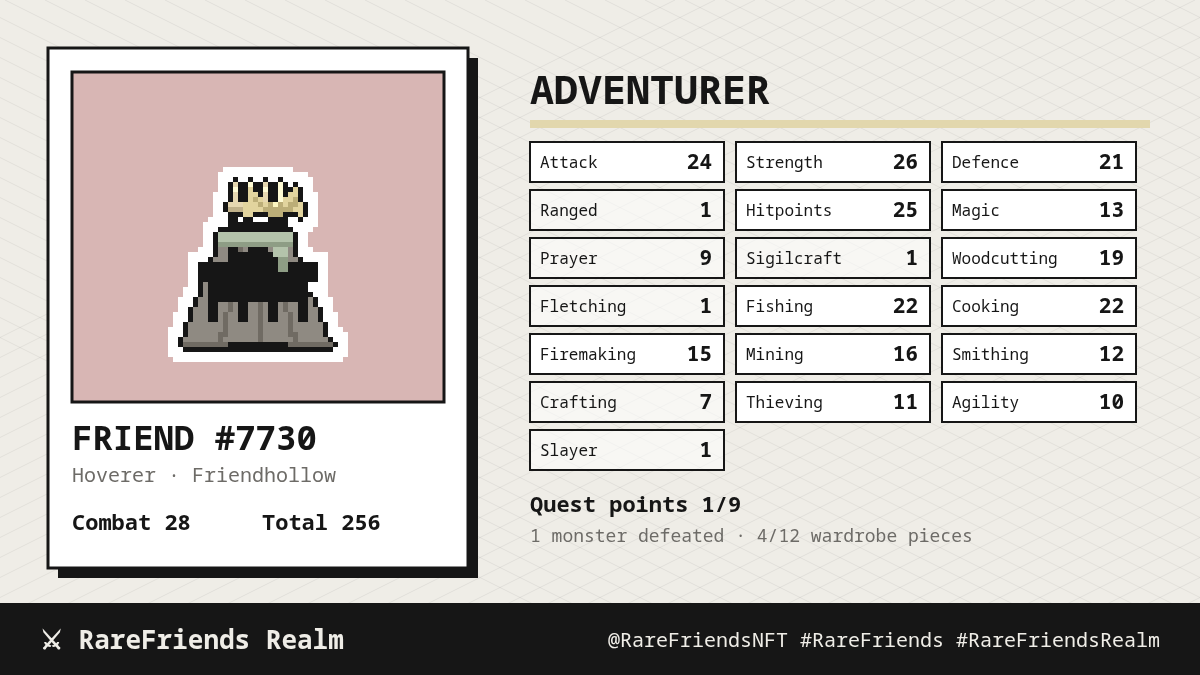
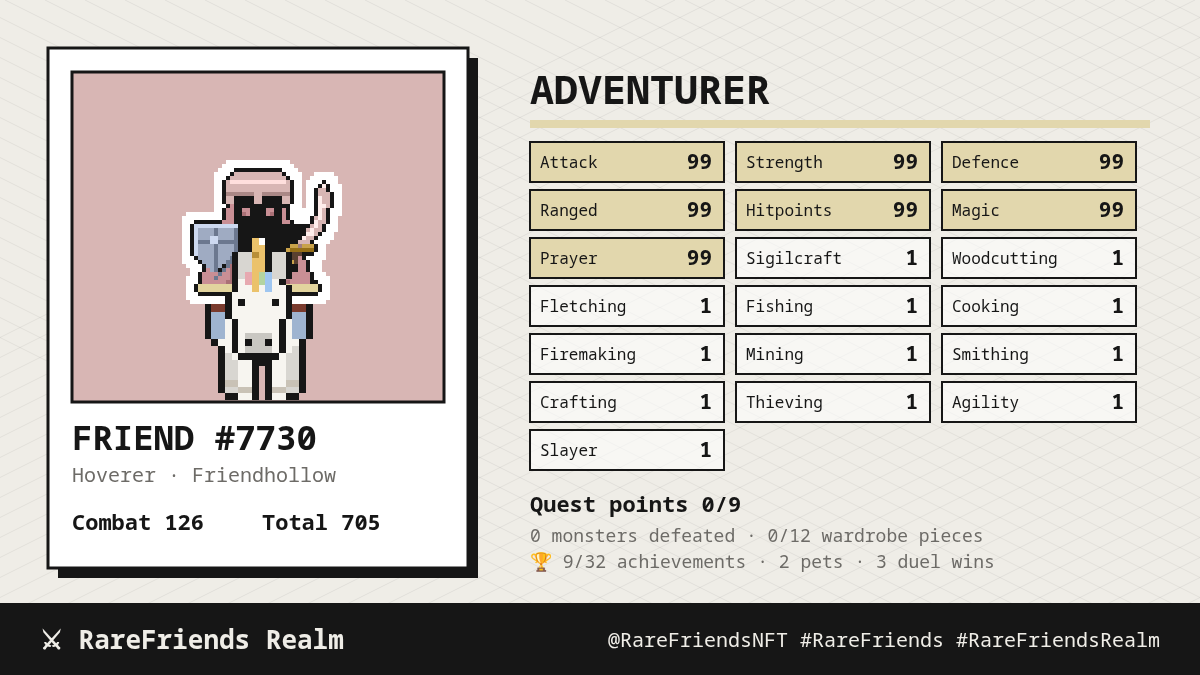
Preview site: a What's new gallery (playing together, unicorns and the stables, the Ashen Colossus, the Sparring Ring, fireworks, storms and fog, gear, rare drops, pets and hiscores, the Realm Daily, achievements), a new adventurer card; fireworks glow over the night

diff --git a/site/preview/index.html b/site/preview/index.html
@@ -153,7 +153,7 @@ footer .wrap { display: flex; flex-wrap: wrap; justify-content: space-between; g
 <header class="top">
   <div class="wrap bar">
     <a class="logo" href="#"><i>⚔</i> RareFriends Realm</a>
-    <nav aria-label="Sections"><a href="#trailer">Trailer</a><a href="#explore">Explore</a><a href="#skills">Skills &amp; quests</a><a href="#music-section">Soundtrack</a><a href="#caskets">Caskets</a><a href="./guides.html">Skill guides</a><a href="#play">Play</a></nav>
+    <nav aria-label="Sections"><a href="#trailer">Trailer</a><a href="#new">What's new</a><a href="#explore">Explore</a><a href="#skills">Skills &amp; quests</a><a href="#music-section">Soundtrack</a><a href="#caskets">Caskets</a><a href="./guides.html">Skill guides</a><a href="#play">Play</a></nav>
   </div>
   <div class="wrap trailer" id="trailer">
     <div class="frame">
@@ -167,7 +167,7 @@ footer .wrap { display: flex; flex-wrap: wrap; justify-content: space-between; g
     <div>
       <span class="tag">Rare Friends Vibeathon · FriendSDK v0.1.2</span>
       <h1>RareFriends<span>Realm</span></h1>
-      <p class="lead">An old-school adventure starring the Rare Friend you own. Chop, fish, mine, smith and fight across a hand-built 2.5D island, right-click everything, and end the Hollow King's reign.</p>
+      <p class="lead">An old-school adventure starring the Rare Friend you own, shared with everyone online. Chop, fish, mine, smith and fight across a hand-built 2.5D island, ride horses and unicorns, duel your friends, bring down a world boss together, and end the Hollow King's reign.</p>
       <div class="cta">
         <a class="btn primary" href="../">⚔ Play the Realm</a>
         <button class="btn" type="button" data-track="theme">♪ Hear the main theme</button>
@@ -179,6 +179,30 @@ footer .wrap { display: flex; flex-wrap: wrap; justify-content: space-between; g
 </header>
 
 <div class="ribbon"><ul class="wrap"><li><b>19</b>skills</li><li><b>6</b>quests</li><li><b>14</b>regions</li><li><b>8</b>mounts</li><li><b>6</b>pets</li><li><b>32</b>achievements</li><li><b>18</b>music tracks</li><li><b>1</b>world boss</li></ul></div>
+
+<section id="new">
+  <div class="wrap">
+    <span class="tag">What's new</span>
+    <h2>The Realm keeps growing</h2>
+    <p class="sub">Since launch the Realm has become a place to play together: mounts, a world boss, duels, pets, achievements, a daily streak, weather and a lot of polish. Every update is listed in the game's own update log.</p>
+    <div class="regions">
+      <figure class="region big"><img src="img/new-together.png" alt="Two players on a unicorn and a black warhorse chatting by the Friendhollow fountain" loading="lazy"><figcaption><b>Play together</b>Everyone online shares the Realm: see each other's Friends, gear and mounts, chat and whisper, trade, fight the same monsters, and earn +5% XP near friends.</figcaption></figure>
+      <figure class="region"><img src="img/new-unicorn.png" alt="A Friend in a moonsilver helm with a sword and shield riding a unicorn through Friendhollow" loading="lazy"><figcaption><b>Ride a unicorn</b>Eight mounts, each faster than running, each with a gift.</figcaption></figure>
+      <figure class="region"><img src="img/new-stables.png" alt="The Friendhollow stables and paddock, with a chestnut horse, a grey and a unicorn grazing" loading="lazy"><figcaption><b>The stables</b>Marigold's stables and paddock, west of the castle.</figcaption></figure>
+      <figure class="region"><img src="img/new-boss.png" alt="The Ashen Colossus, a huge ember-red giant, in Wyrmreach" loading="lazy"><figcaption><b>The Ashen Colossus</b>A world boss every two hours. Everyone who wounds it shares the loot.</figcaption></figure>
+      <figure class="region"><img src="img/new-duel.png" alt="Two players dueling inside the fenced Sparring Ring" loading="lazy"><figcaption><b>The Sparring Ring</b>Safe duels between players, with wins and losses counted.</figcaption></figure>
+      <figure class="region"><img src="img/new-fireworks.png" alt="Level-up fireworks bursting over Friendhollow square at night" loading="lazy"><figcaption><b>Level-up fireworks</b>In your skill's colours, and everyone nearby sees them.</figcaption></figure>
+      <figure class="region"><img src="img/new-storm.png" alt="A lightning bolt striking Friendhollow in a rainstorm" loading="lazy"><figcaption><b>Storms</b>Rain, lightning and thunder that every player shares.</figcaption></figure>
+      <figure class="region"><img src="img/new-fog.png" alt="Ground fog over the Hollow Farms at dawn" loading="lazy"><figcaption><b>Misty mornings</b>Ground fog at dawn, and the Murkmire's mist.</figcaption></figure>
+      <figure class="region"><img src="img/new-gear-knight.png" alt="A Friend in a rarite helm with a sabre, shield and trimmed cape" loading="lazy"><figcaption><b>Gear you can see</b>Helms, shields and weapons painted into your Friend's pixels.</figcaption></figure>
+      <figure class="region"><img src="img/new-gear-mage.png" alt="A Friend in a wizard's hat holding an ember staff upright" loading="lazy"><figcaption><b>Staffs and hats</b>Staffs stand upright with an orb of their element.</figcaption></figure>
+      <figure class="region"><img src="img/new-rare.png" alt="A rare drop glowing in a beam of golden light at night" loading="lazy"><figcaption><b>Rare drops</b>A beam of light and a chime when something good drops.</figcaption></figure>
+      <figure class="region"><img src="img/new-pets.png" alt="The Friends tab with pets and a hiscores table, and Mote the pet floating beside a Friend" loading="lazy"><figcaption><b>Pets and hiscores</b>Six pets to find, and hiscores of everyone you've met.</figcaption></figure>
+      <figure class="region"><img src="img/new-daily.png" alt="The Realm Daily popup with a 7-day streak and three challenges" loading="lazy"><figcaption><b>The Realm Daily</b>A login streak, three daily challenges and a chest.</figcaption></figure>
+      <figure class="region"><img src="img/new-achievements.png" alt="The achievements tab with earned and locked achievements" loading="lazy"><figcaption><b>32 achievements</b>Skills, combat, quests, collecting, together and daily.</figcaption></figure>
+    </div>
+  </div>
+</section>
 
 <section>
   <div class="wrap">
@@ -216,7 +240,7 @@ footer .wrap { display: flex; flex-wrap: wrap; justify-content: space-between; g
   <div class="wrap">
     <span class="tag">Explore</span>
     <h2>A 240 × 240 tile island</h2>
-    <p class="sub">Fourteen regions and two dungeons, each with its own music: cobbled Friendhollow and its three-storey castle, the Wizards' Tower, dragon-haunted Wyrmreach, the farms, Whisperwood's Grumblins, the Ashen Hills mine, the Emberforge, snowy Frostpeak, Glass Lake, the Pale Dunes and Oasis, Murkmire's crypt, and the Mossy Ruins above the Hollow Depths.</p>
+    <p class="sub">Fourteen regions and two dungeons, each with its own music: cobbled Friendhollow with its three-storey castle, stables and Sparring Ring, the Wizards' Tower, dragon-haunted Wyrmreach, the farms, Whisperwood's Grumblins, the Ashen Hills mine, the Emberforge, snowy Frostpeak, Glass Lake, the Pale Dunes and Oasis, Murkmire's crypt, and the Mossy Ruins above the Hollow Depths.</p>
     <div class="regions">
       <figure class="region big"><img src="img/town.png" alt="Friendhollow square with its fountain, bank, chapel and townsfolk Friends" loading="lazy"><figcaption><b>Friendhollow</b>The fountain square, the bank, the chapel and Friendhollow Castle, where King Hollis holds court upstairs.</figcaption></figure>
       <figure class="region"><img src="img/castle.png" alt="Friendhollow Castle's keep and four spired towers seen from the square" loading="lazy"><figcaption><b>Friendhollow Castle</b>A keep, four towers and spiral stairs.</figcaption></figure>
@@ -303,11 +327,11 @@ footer .wrap { display: flex; flex-wrap: wrap; justify-content: space-between; g
 
 <section class="dark" style="padding: 56px 0">
   <div class="wrap two">
-    <img src="img/adventurer-card.png" alt="An adventurer card for Friend #7730 with levels and quest points">
+    <img src="img/adventurer-card.png" alt="An adventurer card for Friend #7730 riding a unicorn in a rarite helm with a shield and sabre, with levels, quest points and achievements">
     <div>
       <span class="tag" style="color: var(--gold)">Share</span>
       <h2>Post your adventurer card</h2>
-      <p>Your Friend, your nineteen levels and your quest points on a 1200 × 675 card. <b>Post to X</b> tags <b>@RareFriendsNFT #RareFriends #RareFriendsRealm</b>, or copy or save the picture.</p>
+      <p>Your Friend exactly as it looks in the Realm (helm, cape, shield, weapon, and the mount you're riding), your nineteen levels, quest points, achievements, pets and duel wins on a 1200 × 675 card. <b>Post to X</b> tags <b>@RareFriendsNFT #RareFriends #RareFriendsRealm</b>, or copy or save the picture.</p>
       <p style="color: #a8a39c">Your progress saves through the trusted host page for each wallet and Friend, and your other owned Friends can follow you around the Realm.</p>
     </div>
   </div>

diff --git a/games/rarefriends-realm/effects.ts b/games/rarefriends-realm/effects.ts
@@ -12,6 +12,8 @@ type Particle = {
   x: number; y: number; h: number; vx: number; vy: number; vh: number; gravity: number; age: number; life: number;
   color: string; size: number; kind: "chip" | "spark" | "drop" | "puff" | "leaf" | "flake" | "dust" | "glow" | "butterfly" | "ring";
   seed: number;
+  /** Firework sparks: drawn glowing, over the night. */
+  bright?: boolean;
 };
 const particles: Particle[] = [];
 const MAX = 320;
@@ -34,25 +36,26 @@ export function fireworks(world: World, x: number, y: number, colors: readonly s
     const ox = (r - 1) * 0.8, oy = (1 - r) * 0.35, delay = r * 0.24, climb = 0.55 + r * 0.06, rise = 150, drag = 60;
     const apex = ground + 30 + rise * climb - drag * climb * climb / 2;
     pending.push({ at: effectsClock + delay, run: () => {
-      add({ x: x + ox, y: y + oy, h: ground + 30, vx: 0, vy: 0, vh: rise, gravity: drag, life: climb, color: "#fff4c0", size: 2.4, kind: "spark" });
-      for (let k = 1; k < 4; k++) add({ x: x + ox, y: y + oy, h: ground + 30, vx: 0, vy: 0, vh: rise - k * 12, gravity: drag, life: climb, color: "#e6a24a", size: 1.4, kind: "spark" });
+      add({ x: x + ox, y: y + oy, h: ground + 30, vx: 0, vy: 0, vh: rise, gravity: drag, life: climb, color: "#fff4c0", size: 3, kind: "spark", bright: true });
+      for (let k = 1; k < 4; k++) add({ x: x + ox, y: y + oy, h: ground + 30, vx: 0, vy: 0, vh: rise - k * 12, gravity: drag, life: climb, color: "#e6a24a", size: 1.8, kind: "spark", bright: true });
     } });
     pending.push({ at: effectsClock + delay + climb, run: () => {
       const color = colors[r % colors.length];
-      burst("chip", x + ox, y + oy, apex, 24, color, { speed: 2.6, up: 34, gravity: 46, life: 1.4, size: 3 });
-      burst("chip", x + ox, y + oy, apex, 10, colors[(r + 1) % colors.length], { speed: 1.8, up: 26, gravity: 46, life: 1.2, size: 2.5 });
-      burst("spark", x + ox, y + oy, apex, 12, "#ffffff", { speed: 2, up: 20, gravity: 20, life: 0.9, size: 2 });
+      burst("spark", x + ox, y + oy, apex, 30, color, { speed: 5.2, up: 34, gravity: 40, life: 1.5, size: 3.6, bright: true });
+      burst("spark", x + ox, y + oy, apex, 14, colors[(r + 1) % colors.length], { speed: 3.8, up: 26, gravity: 40, life: 1.3, size: 3, bright: true });
+      burst("spark", x + ox, y + oy, apex, 14, "#ffffff", { speed: 4.2, up: 20, gravity: 20, life: 1, size: 2.4, bright: true });
+      burst("chip", x + ox, y + oy, apex, 10, color, { speed: 1.4, up: 20, gravity: 50, life: 1.8, size: 2.5 });
     } });
     pops.push(delay + climb);
   }
   return pops;
 }
 /** A burst of `n` particles from a world point. */
-export function burst(kind: Particle["kind"], x: number, y: number, h: number, n: number, color: string, options: { speed?: number; up?: number; life?: number; size?: number; gravity?: number } = {}) {
+export function burst(kind: Particle["kind"], x: number, y: number, h: number, n: number, color: string, options: { speed?: number; up?: number; life?: number; size?: number; gravity?: number; bright?: boolean } = {}) {
   for (let i = 0; i < n; i++) {
     const a = Math.random() * Math.PI * 2, speed = (options.speed ?? 1.2) * (0.5 + Math.random());
     add({ x, y, h, vx: Math.cos(a) * speed, vy: Math.sin(a) * speed, vh: (options.up ?? 40) * (0.6 + Math.random() * 0.6), gravity: options.gravity ?? 160,
-      life: (options.life ?? 0.7) * (0.7 + Math.random() * 0.6), color, size: options.size ?? 2, kind });
+      life: (options.life ?? 0.7) * (0.7 + Math.random() * 0.6), color, size: options.size ?? 2, kind, bright: options.bright });
   }
 }
 
@@ -194,8 +197,21 @@ export function drawCloudShadows(ctx: CanvasRenderingContext2D, project: Project
   }
 }
 /** Particles and birds, on top of the scene. */
-export function drawEffects(ctx: CanvasRenderingContext2D, project: Project, world: World, now: number, zoom: number) {
+export function drawEffects(ctx: CanvasRenderingContext2D, project: Project, world: World, now: number, zoom: number, pass: "normal" | "bright" = "normal") {
+  if (pass === "bright") {
+    // Firework sparks: a soft glow and a bright core, added over the night so they light up the dark.
+    ctx.globalCompositeOperation = "lighter";
+    for (const particle of particles) {
+      if (!particle.bright) continue;
+      const p = project(particle.x, particle.y, particle.h - groundHeight(world, particle.x, particle.y)), k = Math.max(0, 1 - particle.age / particle.life), s = particle.size * zoom * 1.5;
+      ctx.globalAlpha = k * 0.16; ctx.fillStyle = particle.color; ctx.fillRect(p.x - s * 1.5, p.y - s * 1.5, s * 3, s * 3);
+      ctx.globalAlpha = Math.min(0.9, k * 1.2); ctx.fillRect(Math.round(p.x - s / 2), Math.round(p.y - s / 2), Math.max(1, Math.round(s)), Math.max(1, Math.round(s)));
+    }
+    ctx.globalAlpha = 1; ctx.globalCompositeOperation = "source-over";
+    return;
+  }
   for (const particle of particles) {
+    if (particle.bright) continue;
     const floor = particle.kind === "leaf" || particle.kind === "flake" ? Math.max(particle.h, groundHeight(world, particle.x, particle.y)) : particle.h;
     const p = project(particle.x, particle.y, floor - groundHeight(world, particle.x, particle.y)), k = 1 - particle.age / particle.life, s = particle.size * zoom * 1.5;
     ctx.globalAlpha = Math.max(0, Math.min(1, particle.kind === "puff" ? k * 0.45 : particle.kind === "glow" ? (0.5 + Math.sin(now / 200 + particle.seed) * 0.5) * k : k * 1.4));

diff --git a/games/rarefriends-realm/index.tsx b/games/rarefriends-realm/index.tsx
@@ -270,7 +270,7 @@ export default function RareFriendsRealm({ friendId, client, paused }: GameCompo
         time: (value: number | null) => { fixedTime = value; },
         /** Fix the weather ({ rain, storm, fog }), or null to follow the clock. */
         weather: (value: Weather | null) => { fixedWeather = value; },
-        fireworks: () => { const state = game.current; if (state) celebrate(state.player.x, state.player.y, SKILL_COLORS.magic); },
+        fireworks: () => { const state = game.current; if (state) celebrate(state.player.x, state.player.y, ["#e7a9b0", "#ebc26b", "#9fc6f0", "#b4d4a0"]); },
         boss: (ms: number | null) => { bossClock = ms === null ? null : () => ms; const state = game.current; if (state && ms !== null) { updateWorldBoss(state, ms); refresh(); } },
         view: (zoom: number, pitch: number, angle = 0) => { setSettings({ ...live.current.settings, zoom }); camera.current.pitch = pitch; camera.current.angle = angle; cameraGoal.current = null; },
         screenOf: (x: number, y: number) => {

diff --git a/games/rarefriends-realm/render.ts b/games/rarefriends-realm/render.ts
@@ -1148,6 +1148,7 @@ export function renderScene(ctx: CanvasRenderingContext2D, scene: Scene) {
   if (weather && weather.rain > 0.02) drawRain(ctx, weather.rain, scene.reducedMotion ? 0 : now, light.dark);
   if (scene.strike && scene.wallMs !== undefined && !underground && weather?.storm) drawLightning(ctx, scene.strike, scene.wallMs, scene.reducedMotion);
   // A soft vignette outdoors, for depth.
+  drawEffects(ctx, project, world, now, z, "bright");
   if (!underground) { const v = ctx.createRadialGradient(VIEW.width / 2, VIEW.height / 2, VIEW.height * 0.45, VIEW.width / 2, VIEW.height / 2, VIEW.width * 0.72); v.addColorStop(0, "rgba(14,16,28,0)"); v.addColorStop(1, `rgba(14,16,28,${(0.16 + light.dark * 0.2).toFixed(3)})`); ctx.fillStyle = v; ctx.fillRect(0, 0, VIEW.width, VIEW.height); }
   // Click marker: an old-school cross, yellow for walking, red for actions.
   if (scene.marker && now - scene.marker.at < 450) {
